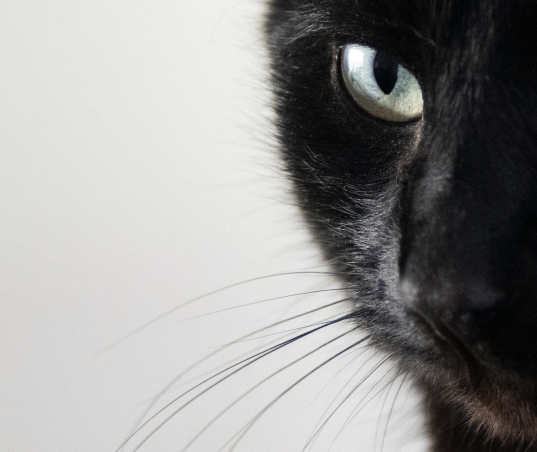
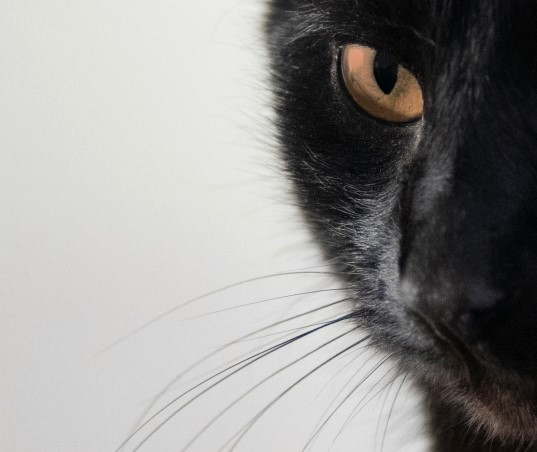
added a "quote" section

Changed region(s): [[0.6257, 0.0929, 0.8045, 0.2788]]

diff --git a/css/style.min.css b/css/style.min.css
@@ -1,1 +1,1 @@
-.header{grid-area:header;background-color:#afa29a;padding:15px;display:grid;grid-template:1fr/1fr minmax(auto, 300px) minmax(auto, 1100px) 1fr;-webkit-box-align:center;-ms-flex-align:center;align-items:center}.header__logo{grid-column:2/3;width:70px;height:70px}.header__menu{grid-column:3/4}.header__list{display:grid;grid-auto-flow:column;justify-items:end}.header__link{color:#fff;font-size:18px}.main{grid-area:main;padding:30px 15px 70px 15px;display:grid;grid-template:1fr/1fr minmax(auto, 300px) minmax(auto, 1100px) 1fr}.sidebar{grid-column:2/3;background-color:#181818;padding:30px 15px}.sidebar__list li{margin-bottom:35px;cursor:pointer;font-size:18px}.sidebar__link{color:#fff}.content{grid-column:3/4;padding-left:20px}.content__title{margin-bottom:50px;font-size:40px}.content__gallery{margin-bottom:70px}.gallery__title{margin-bottom:10px;text-transform:uppercase}.gallery__items{display:grid;gap:10px;grid-template-columns:repeat(auto-fit, minmax(250px, 1fr))}.gallery__item{position:relative;padding-bottom:85%}.gallery__item img{position:absolute;top:0;left:0;width:100%;height:100%;-o-object-fit:cover;object-fit:cover}.gallery__item_big{grid-column:span 2;grid-row:span 2}.products__title{margin-bottom:10px;text-transform:uppercase}.products__items{display:grid;gap:50px 30px;grid-template-columns:repeat(auto-fit, minmax(250px, 1fr));grid-auto-rows:1fr}.products__item{display:grid;grid-auto-flow:row;grid-template:auto 1fr minmax(40px, auto)/1fr}.products__image{position:relative;padding-bottom:90%;margin-bottom:20px}.products__image img{position:absolute;top:0;left:0;width:100%;height:100%;-o-object-fit:cover;object-fit:cover}.products__name{font-size:18px;color:#000;font-weight:700;margin-bottom:10px}.products__button{text-transform:uppercase;background-color:#afa29a;color:#fff;justify-self:start;line-height:40px;padding:0 20px;cursor:pointer}.footer{grid-area:footer;background-color:#998d85;display:grid;grid-template:1fr/1fr minmax(auto, 300px) minmax(auto, 1100px) 1fr;padding:15px;-webkit-box-align:center;-ms-flex-align:center;align-items:center}.footer_copy{grid-column:2/3}.footer_text{grid-column:3/4;text-align:right}*{-webkit-box-sizing:border-box;box-sizing:border-box;margin:0;padding:0}body{font-family:"Montserrat",sans-serif}h1,h2,h3,h4,h5,h6,p{margin:0}ul{list-style:none}a{text-decoration:none}.wrapper{background-color:#fbfbfb;min-height:100%;display:grid;grid-template:minmax(100px, auto) 1fr minmax(70px, auto)/1fr;grid-template-areas:"header" "main" "footer"}/*# sourceMappingURL=style.min.css.map */
+.header{grid-area:header;background-color:#afa29a;padding:15px;display:grid;grid-template:1fr/1fr minmax(auto, 300px) minmax(auto, 1100px) 1fr;-webkit-box-align:center;-ms-flex-align:center;align-items:center}.header__logo{grid-column:2/3;width:70px;height:70px}.header__menu{grid-column:3/4}.header__list{display:grid;grid-auto-flow:column;justify-items:end}.header__link{color:#fff;font-size:18px}.main{grid-area:main;padding:30px 15px 70px 15px;display:grid;grid-template:1fr/1fr minmax(auto, 300px) minmax(auto, 1100px) 1fr}.sidebar{grid-column:2/3;background-color:#181818;padding:30px 15px}.sidebar__list li{margin-bottom:35px;cursor:pointer;font-size:18px}.sidebar__link{color:#fff}.content{grid-column:3/4;padding-left:20px}.content__title{margin-bottom:50px;font-size:40px;color:#181818}.content__gallery{margin-bottom:100px}.content__quotes{margin-bottom:100px}.gallery__title{margin-bottom:10px;text-transform:uppercase;color:#181818}.gallery__items{display:grid;gap:10px;grid-template-columns:repeat(auto-fit, minmax(250px, 1fr))}.gallery__item{position:relative;padding-bottom:85%}.gallery__item img{position:absolute;top:0;left:0;width:100%;height:100%;-o-object-fit:cover;object-fit:cover}.gallery__item_big{grid-column:span 2;grid-row:span 2}.quotes__wrapper hr{width:300px;margin-top:15px}.quotes__text{margin-bottom:15px;font-size:20px;color:#181818}.quotes__descr{cursor:pointer;font-weight:700;color:#afa29a;font-size:24px}.products__title{margin-bottom:10px;text-transform:uppercase;color:#181818}.products__items{display:grid;gap:50px 30px;grid-template-columns:repeat(auto-fit, minmax(250px, 1fr));grid-auto-rows:1fr}.products__item{display:grid;grid-auto-flow:row;grid-template:auto 1fr minmax(40px, auto)/1fr}.products__image{position:relative;padding-bottom:90%;margin-bottom:20px}.products__image img{position:absolute;top:0;left:0;width:100%;height:100%;-o-object-fit:cover;object-fit:cover}.products__name{font-size:18px;color:#181818;font-weight:700;margin-bottom:10px}.products__button{text-transform:uppercase;background-color:#afa29a;color:#fff;justify-self:start;line-height:40px;padding:0 20px;cursor:pointer}.footer{grid-area:footer;background-color:#998d85;display:grid;grid-template:1fr/1fr minmax(auto, 300px) minmax(auto, 1100px) 1fr;padding:15px;-webkit-box-align:center;-ms-flex-align:center;align-items:center}.footer_copy{grid-column:2/3;color:#181818}.footer_text{grid-column:3/4;text-align:right;color:#181818}*{-webkit-box-sizing:border-box;box-sizing:border-box;margin:0;padding:0}body{font-family:"Montserrat",sans-serif}h1,h2,h3,h4,h5,h6,p{margin:0}ul{list-style:none}a{text-decoration:none}.wrapper{background-color:#fbfbfb;min-height:100%;display:grid;grid-template:minmax(100px, auto) 1fr minmax(70px, auto)/1fr;grid-template-areas:"header" "main" "footer"}/*# sourceMappingURL=style.min.css.map */

diff --git a/sass/blocks/_content.scss b/sass/blocks/_content.scss
@@ -4,15 +4,20 @@
     &__title {
         margin-bottom: 50px;
         font-size: 40px;
+        color: rgba(24, 24, 24, 1);
     }
     &__gallery {
-        margin-bottom: 70px;
+        margin-bottom: 100px;
+    }
+    &__quotes {
+        margin-bottom: 100px;
     }
 }
 .gallery {
     &__title {
         margin-bottom: 10px;
         text-transform: uppercase;
+        color: rgba(24, 24, 24, 1);
     }
     &__items {
         display: grid;
@@ -37,10 +42,31 @@
     }
 }
 
+.quotes {
+    &__wrapper {
+        hr {
+            width: 300px;
+            margin-top: 15px;
+        }
+    }
+    &__text {
+        margin-bottom: 15px;
+        font-size: 20px;
+        color: rgba(24, 24, 24, 1);
+    }
+    &__descr {
+        cursor: pointer;
+        font-weight: 700;
+        color: rgba(175, 162, 154, 1);
+        font-size: 24px;
+    }
+}
+
 .products {
     &__title {
         margin-bottom: 10px;
         text-transform: uppercase;
+        color: rgba(24, 24, 24, 1);
     }
     &__items {
         display: grid;
@@ -68,7 +94,7 @@
     }
     &__name {
         font-size: 18px;
-        color: #000;
+        color: rgba(24, 24, 24, 1);
         font-weight: 700;
         margin-bottom: 10px;
     }

diff --git a/index.html b/index.html
@@ -76,6 +76,15 @@
                     </div>
                 </section>
 
+                <div class="content__quotes">
+                    <section class="quotes__wrapper">
+                        <p class="quotes__text">Perfume puts the finishing touch to elegance - a detail that subtly underscores the look, an invisible extra that completes a man and a woman's personality. Without it there is something missing.</p>
+                        <a href="https://en.wikipedia.org/wiki/Gianni_Versace" class="quotes__descr">Gianni Versace</a>
+                        <hr>
+                    </section>
+                </div>
+            
+
                 <div class="content__products products">
                     <h2 class="products__title">SHOP</h2>
                     <div class="products__items">

diff --git a/sass/blocks/_footer.scss b/sass/blocks/_footer.scss
@@ -7,9 +7,11 @@
     align-items: center;
     &_copy {
         grid-column: 2 / 3;
+        color: rgba(24, 24, 24, 1);
     }
     &_text {
         grid-column: 3 / 4;
-        text-align: right;;
+        text-align: right;
+        color: rgba(24, 24, 24, 1);
     }
 }
